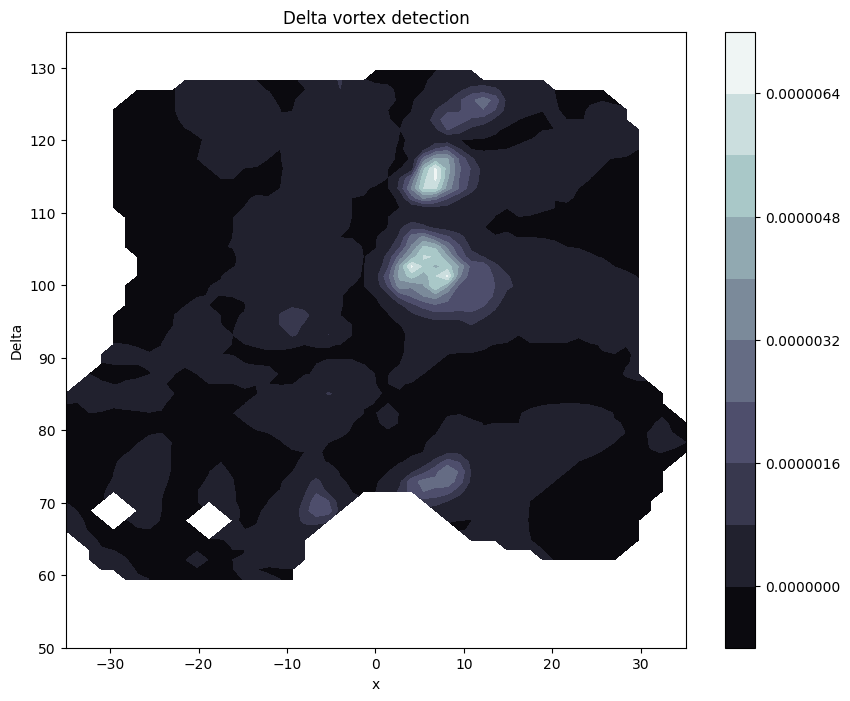
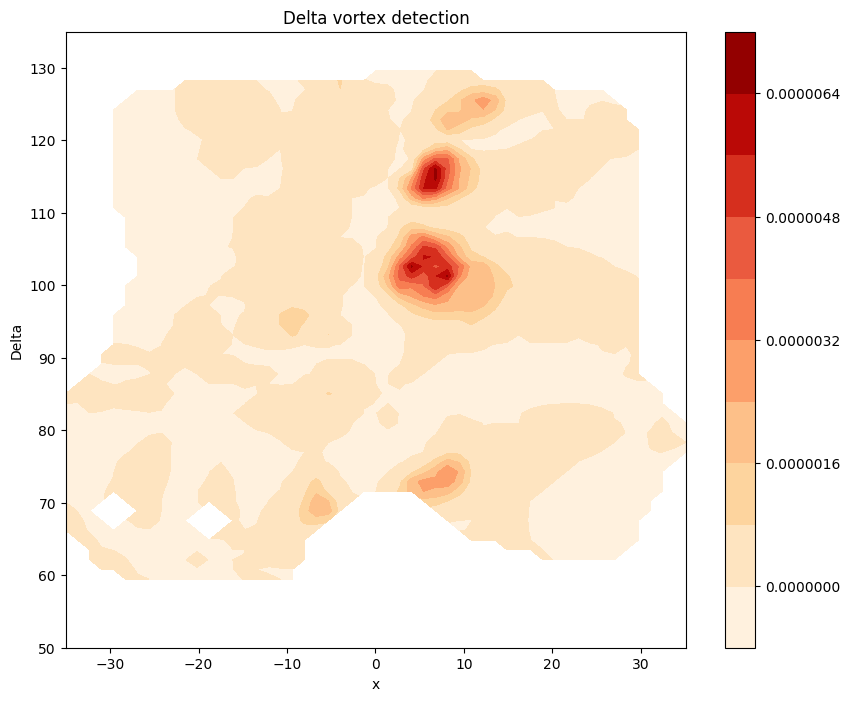
changed graphs

diff --git a/src/load_file.py b/src/load_file.py
@@ -115,7 +115,7 @@ def plot_data_3d(xx, yy, data, save=False, show=True, *args):
     fig = plt.figure(figsize=(10, 8))
     ax = fig.add_subplot(111, projection='3d')
     p = ax.plot_surface(xx, yy, data, rstride=1, cstride=1, linewidth=0,
-                        cmap=cm.bone, vmin=np.nanmin(data), vmax=np.nanmax(data))
+                        cmap=cm.OrRd, vmin=np.nanmin(data), vmax=np.nanmax(data))
     ax.set_xlabel('x')
     ax.set_ylabel('y')
     fig.colorbar(p)
@@ -135,7 +135,7 @@ def plot_data_3d(xx, yy, data, save=False, show=True, *args):
 def countour_data_plot(xx, yy, data, *args, save=False, show=True):
     fig = plt.figure(figsize=(10, 8))
     ax = fig.add_subplot(111)
-    cs = plt.contourf(xx, yy, data, 10, cmap=cm.bone, origin='lower')
+    cs = plt.contourf(xx, yy, data, 10, cmap=cm.OrRd, origin='lower')
     ax.set_xlabel('x')
     # ax.set_ylabel('y')
     fig.colorbar(cs)
@@ -152,7 +152,7 @@ def vortexcenter_scatter_plot(xx, yy, data, centers, *args, save=False, show=Tru
     if new_plot:
         fig = plt.figure(figsize=(10, 8))
         ax = fig.add_subplot(111)
-        cs = plt.contourf(xx, yy, data, 10, cmap=cm.bone, origin='lower')
+        cs = plt.contourf(xx, yy, data, 10, cmap=cm.OrRd, origin='lower')
         fig.colorbar(cs)
         ax.set_xlabel('x')
 
@@ -184,10 +184,11 @@ def quiver_data_plot(xx, yy, data, plane_vector, *args, vortex_centers = None, s
     """Quiver plot."""
     fig = plt.figure(figsize=(10, 8))
     ax = fig.add_subplot(111)
-    cs = plt.contourf(xx, yy, data, 10, cmap=cm.bone, origin='upper')
+    cs = plt.contourf(xx, yy, data, 10, cmap=cm.OrRd, origin='upper')
     mag_plane_vel = (plane_vector[0, :, :] ** 2 + plane_vector[1, :, :] ** 2) ** 0.5
     max = np.nanmax(mag_plane_vel)
-    Q = plt.quiver(xx, yy, plane_vector[0], plane_vector[1], units='width', pivot='tip', scale=5)
+    skip=(slice(None,None,2),slice(None,None,2))
+    Q = plt.quiver(xx[skip], yy[skip], plane_vector[0][skip], plane_vector[1][skip], units='width', pivot='tip', scale=5)
     qk = plt.quiverkey(Q, 0.9, 0.9, max, r'{0:.2f} m/s' .format(max), labelpos='E',
                        coordinates='figure')
     if vortex_centers:

diff --git a/playground/aert.py b/playground/aert.py
@@ -1,0 +1,18 @@
+import matplotlib.pyplot as plt
+import numpy as np
+from numpy import ma
+
+X, Y = np.meshgrid(np.arange(0, 2 * np.pi, .2), np.arange(0, 2 * np.pi, .2))
+U = np.cos(X)
+V = np.sin(Y)
+skip=(slice(None,None,3),slice(None,None,3))
+
+
+plt.figure()
+plt.title('Arrows scale with plot width, not view')
+Q = plt.quiver(X[skip], Y[skip], U[skip], V[skip], units='width')
+qk = plt.quiverkey(Q, 0.9, 0.9, 1, r'$1 \frac{m}{s}$', labelpos='E',
+                   coordinates='figure')
+
+#quiver(x(1:2:end,1:2:end),y(1:2:end,1:2:end),u(1:2:end,1:2:end),v(1:2:end,1:2:end))
+plt.show()
